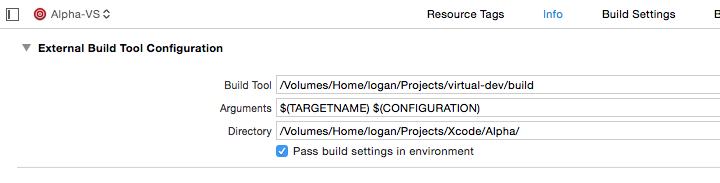
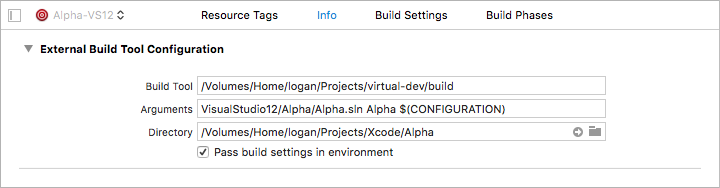
Updated README.md and images

diff --git a/README.md b/README.md
@@ -12,35 +12,39 @@ Requires VirtualBox with guest additions, installed Windows and Visual Studio.
 ```bash
 $ git clone https://github.com/shrpnsld/virtual-dev/ # Can be cloned anywhere
 $ cd Project/Root/
-$ Path/To/virtual-dev/init Path/To/Solution.sln VMName Username password123 # Set up
-$ Path/To/virtual-dev/build Project Debug # Build project
-$ Path/To/virtual-dev/run Project Debug # Run project
+$ Path/To/virtual-dev/init VMName Username password123 Paths/To/Solutions.sln... # Set up
+$ Path/To/virtual-dev/build Path/To/Solution.sln Project Debug # Build project
+$ Path/To/virtual-dev/run Path/To/Solution.sln Project Debug # Run project
 ```
 
 `init` will add shared folder using the solution name and `Project/Root/`, start the virtual machine and wait for user to login, then it will get and generate all configuration it needs.
 
 
 
-# Integration with Xcode
+# Using with Xcode
 
 Projects in the Visual Studio solution correspond to Xcode targets. Thus to build specific Visual Studio project an external build system target should be set up in the Xcode project.
 
 This target should have following settings:
 * Build Tool: `/Absolute/Path/To/virtual-dev/build`
-* Arguments: `$(TARGETNAME)` `$(CONFIGURATION)`
+* Arguments: `Path/To/Solution.sln` `Project` `$(CONFIGURATION)`
 * Directory: `/Absolute/Project/Root/`
 
 ![](./img/ExternalBuildToolConfiguration.png)
 
 To run target it's scheme should have following settings:
-* Executable: `/Absolute/Project/Root/vdevrc/run_in_xcode`
+* Executable: `/Absolute/Path/To/virtual-dev/run`
 * Option 'Debug executable' should be turned off
 
 ![](./img/SchemeRunInfo.png)
 
-* Arguments: `/Absolute/Path/To/virtual-dev/` `$(TARGETNAME)` `$(CONFIGURATION)`.
+* Arguments: `/Absolute/Path/To/virtual-dev/`, `$(TARGETNAME)` and `$(CONFIGURATION)`
 
 ![](./img/SchemeRunArguments.png)
+
+* Working Directory: `/Absolute/Project/Root/`
+
+![](./img/SchemeRunOptions.png)
 
 
 
